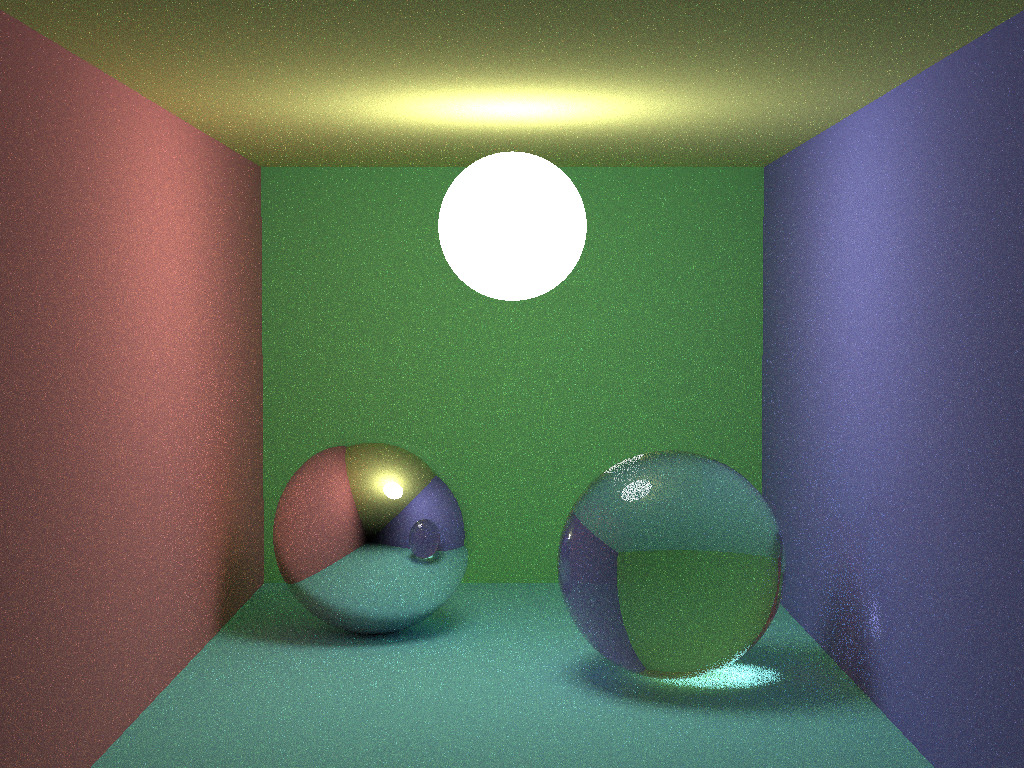
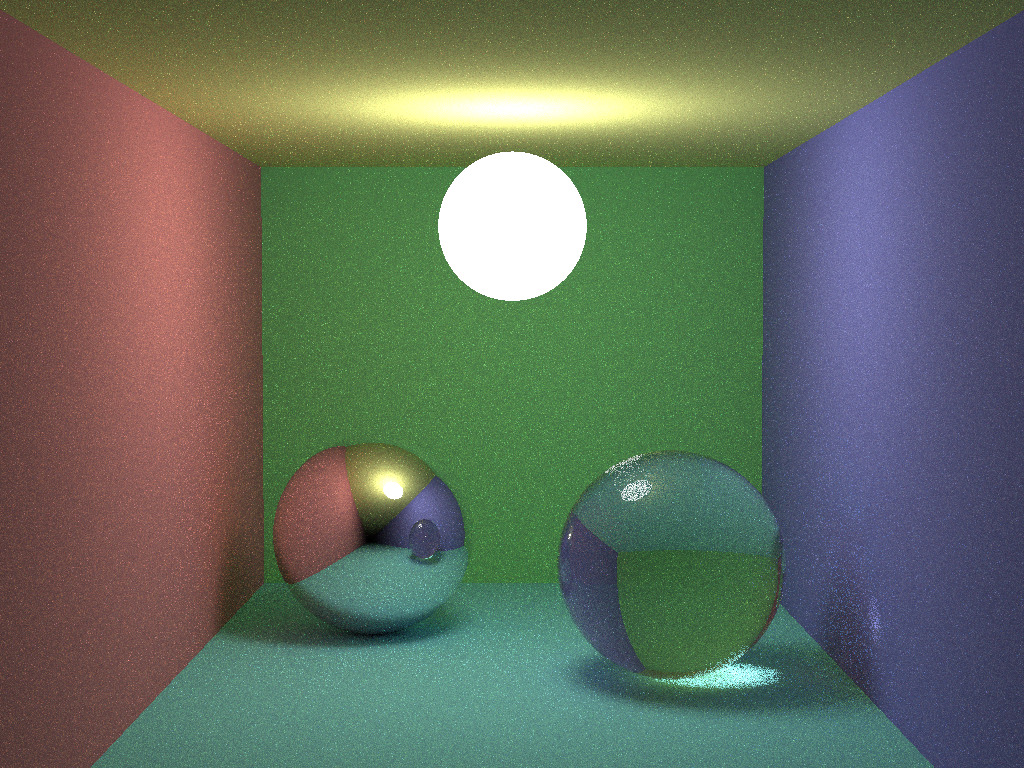
changed indirect color calculation

diff --git a/bidir/rt.cpp b/bidir/rt.cpp
@@ -30,8 +30,22 @@ using namespace std;
 // 	Sphere(1.5, Point(-40, -39.3, -60),        Color(0, 0, 0),       Color(600,600,600), diffuse)  // esfera de luz
 // };
 
+// Sphere spheres[] = {
+// 	//Escena: radio, posicion, color, emision, material
+// 	Sphere(1e5,  Point(-1e5 - 49, 0, 0),   Color(.75, .25, .25), Color(),         diffuse), // pared izq
+// 	Sphere(1e5,  Point(1e5 + 49, 0, 0),    Color(.25, .25, .75), Color(),	      diffuse), // pared der
+// 	Sphere(1e5,  Point(0, 0, -1e5 - 81.6), Color(.25, .75, .25), Color(),	      diffuse), // pared detras
+// 	Sphere(1e5,  Point(0, -1e5 - 40.8, 0), Color(.25, .75, .75), Color(),	      diffuse), // suelo
+// 	Sphere(1e5,  Point(0, 1e5 + 40.8, 0),  Color(.75, .75, .25), Color(),	      diffuse), // techo
+// 	Sphere(16.5, Point(-23, -24.3, -34.6), Color(1, 1, 1),	     Color(),	      specular), // esfera espejo
+// 	Sphere(10.5, Point(-40, -30.3, -34.6), Color(1, 1, 1),	     Color(),	      diffuse), // esfera difusa
+// 	Sphere(10.5, Point(-23, -30.3, -60), Color(1, 1, 1),	     Color(),	      diffuse), // esfera difusa
+// 	Sphere(16.5, Point(23, -24.3, -3.6),   Color(1, 1, 1), 	     Color(),	      dielectric), // esfera dielectrica
+// 	Sphere(1.5, Point(-40, -39.3, -60),        Color(0, 0, 0),       Color(600,600,600), diffuse)  // esfera de luz
+// };
+
 Sphere spheres[] = {
-	// Scene: radius, position, color, emission, material
+	//Escena: radio, posicion, color, emision, material
 	Sphere(1e5,  Point(-1e5 - 49, 0, 0),   Color(.75, .25, .25), Color(),         diffuse), // pared izq
 	Sphere(1e5,  Point(1e5 + 49, 0, 0),    Color(.25, .25, .75), Color(),	      diffuse), // pared der
 	Sphere(1e5,  Point(0, 0, -1e5 - 81.6), Color(.25, .75, .25), Color(),	      diffuse), // pared detras
@@ -197,8 +211,8 @@ bool checkOcclusion(const Point &lightPoint, const Vector &objDirection, int id)
 }
 
 // Shoot shadow ray from camera object intersection (if object material is diffuse) to each intersection of the light path and return geometric term
-Color Gterm(const std::vector<LightPath> &lightPath, const Sphere &obj, const Point &x, Vector &n, int id) {
-	Vector G;
+double Gterm(const std::vector<LightPath> &lightPath, const Sphere &obj, const Point &x, Vector &n, int id) {
+	double G;
 
 	if(obj.mat == diffuse) {
 		for(int i = 0; i < lightPath.size(); i++) {
@@ -212,15 +226,15 @@ Color Gterm(const std::vector<LightPath> &lightPath, const Sphere &obj, const Po
 				Vector lightPathNorm = (lightPath[i].x - spheres[lightPath[i].obj].p).normalize();
 
 				// Dot product between normal at camera object hit point and direction to light path hit point
-				double cameraObjDot = fabs(dirNorm.dot(n));
+				double cameraObjDot = fabs(dirNorm.dot(n))*invPi;
 
 				// Dot product between normal at light path hit point and direction to camera object hit point
-				double lightObjDot = fabs((dirNorm * -1.).dot(lightPathNorm));
+				double lightObjDot = fabs((dirNorm * -1.).dot(lightPathNorm))*invPi;
 
 				// Squared distance between x and lightPath[i].x
 				double sqrdDist = x.squaredDistance(lightPath[i].x);
 
-				G = G + lightPath[i].color * ((lightObjDot * cameraObjDot) / sqrdDist);
+				G = G + ((lightObjDot * cameraObjDot) / sqrdDist);
 
 			}
 			else {
@@ -314,11 +328,11 @@ Color shade(
 		Ray newRay = Ray(x, newDir);
 
 		// Compute geometric term contribution
-		Vector G = Gterm(lightPath, obj, x, n, id);
+		double G = Gterm(lightPath, obj, x, n, id);
 		gatheredColor = gatheredColor + gatheredRefl.mult(G);
 
 		// Compute indirect illumination
-		Color indirectLight = bsdf.mult(shade(newRay, lightPath, bounce++, 0, gatheredColor, gatheredRefl.mult(baseColor), maxBounces)) * (fabs(dotCos)/(probMat*continueprob));
+		Color indirectLight = bsdf.mult(shade(newRay, lightPath, bounce++, 0, gatheredColor, gatheredRefl.mult(baseColor), maxBounces)) * (G/(probMat*continueprob));
 		
 		// Compute direct illumination
 		Color directLight = directLightValue(x, nv, bsdf, continueprob);
